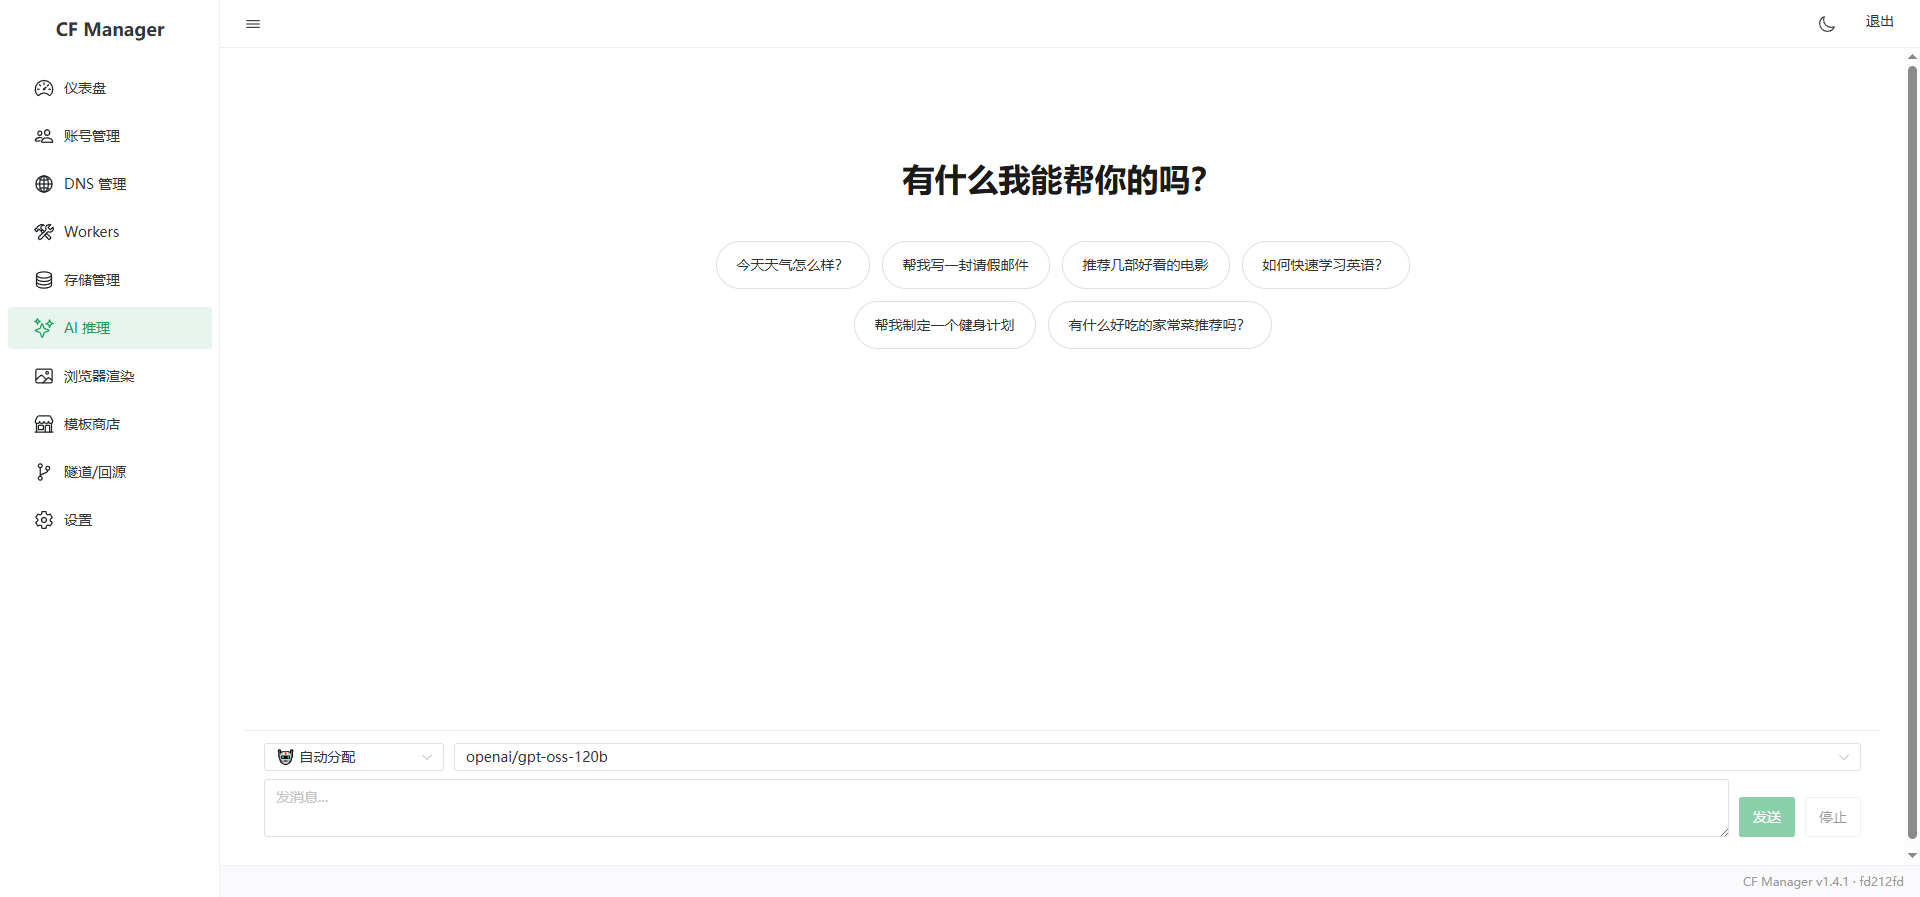
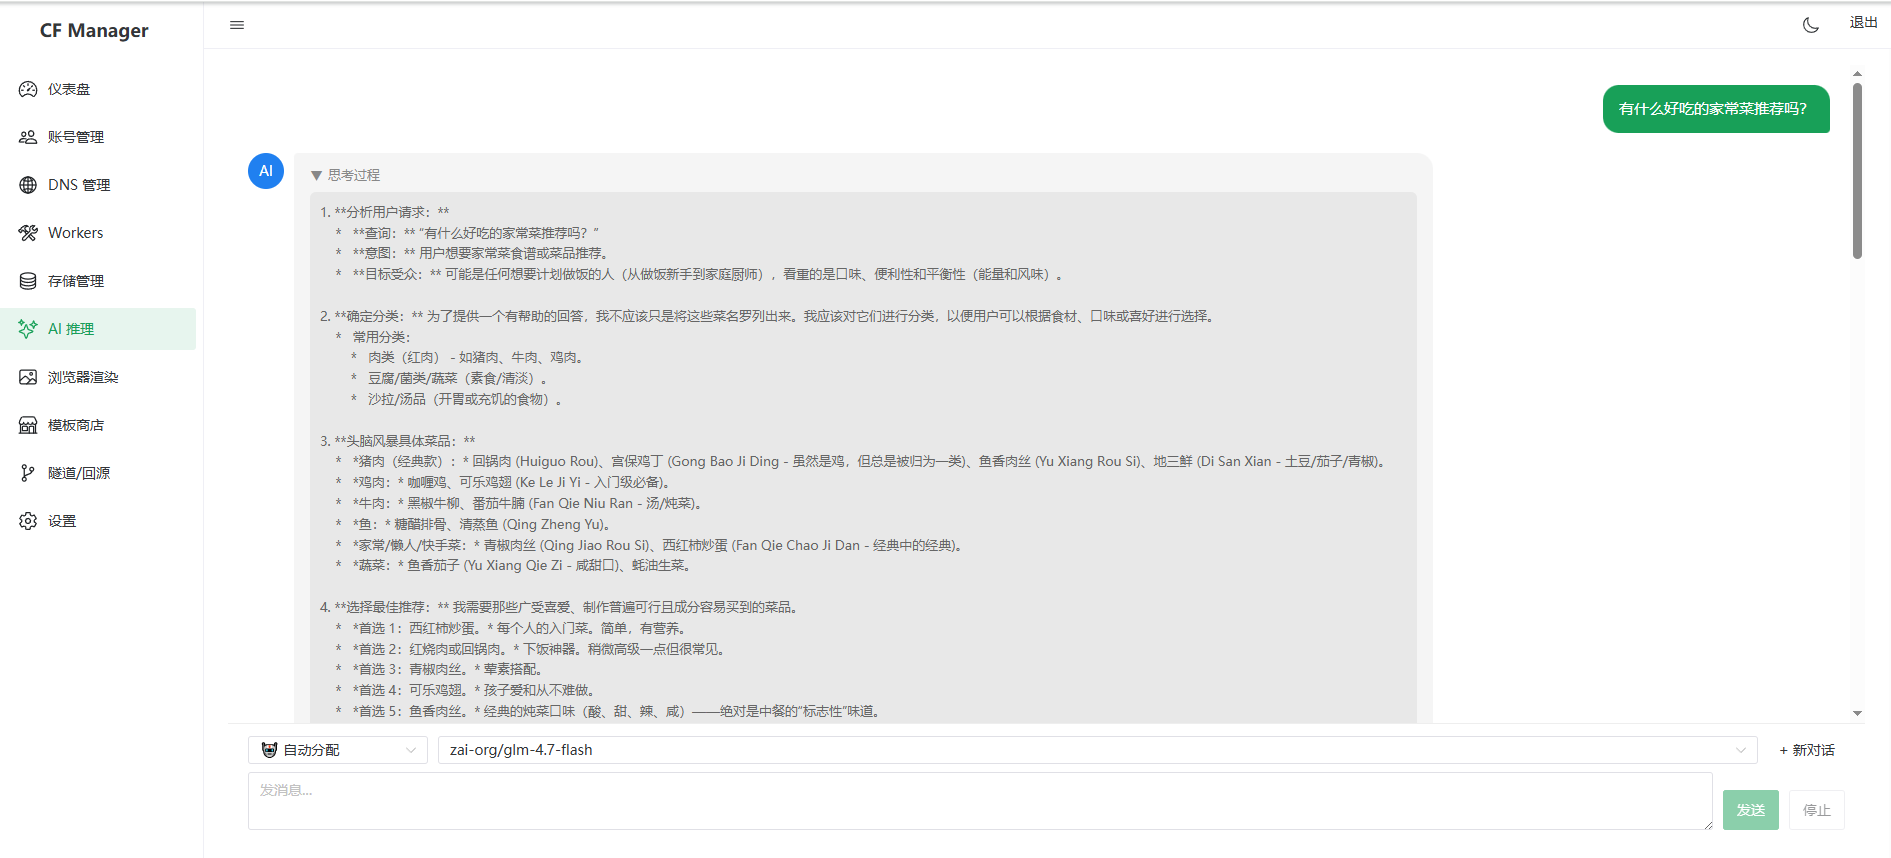
docs: 新增 cf-manager 架构分析文章并更新发布时间

diff --git a/src/content/posts/cf-manager-arch.md b/src/content/posts/cf-manager-arch.md
@@ -1,0 +1,193 @@
+---
+title: Cloudflare 多账户管理：从痛点分析到开源方案实践
+published: 2026-07-30 15:03:27
+description: 分享 Cloudflare 多账户统一管理的技术方案，涵盖 DNS、Workers、存储和 AI 推理的集中运维实践。
+image: "./images/cf-manager-cover.png"
+tags:
+  - Cloudflare
+  - Workers
+  - 运维
+  - 开源
+category: 技术
+draft: false
+lang: 'zh-cn'
+slug: cf-manager-arch
+---
+
+## 背景
+
+日常开发中经常同时用到多个 Cloudflare 账户——一个放博客域名，一个跑 Workers AI，还有一个管理十几条 DNS 记录。官方后台各功能分散在不同页面，切换账户需要反复登录，查配额、部署 Worker 这些操作非常繁琐。
+
+于是做了一个开源工具来解决这个问题，把 Cloudflare 官方后台分散在多个页面、多个账户的功能，全部收到一个面板里。下面分享它的架构设计和技术实现。
+
+---
+
+## 整体架构
+
+![仪表盘](./images/dashboard.png)
+
+核心思路很简单：**通过 Cloudflare API 统一对接所有账户的资源，前端用一个 SPA 面板集中呈现和操作。**
+
+### 架构选型
+
+项目支持两套后端，共用同一套前端和业务逻辑：
+
+| 方案 | 后端 | 数据库 | 适用场景 |
+|------|------|--------|----------|
+| Docker 自托管 | Express 5 | SQLite | 本地/私有服务器，数据处理在本地 |
+| Cloudflare Pages | Hono | D1 | 零运维，数据存在 Cloudflare 边缘 |
+
+两种方案的选择主要看对数据的控制需求。Docker 方案的凭证和操作日志完全在本地，适合对数据隐私要求高的场景；Pages 方案无须维护服务器，适合个人快速使用。
+
+前端统一使用 **Vue 3 + Naive UI + Pinia**，API 层做了适配层，同一套前端代码可以无缝对接两种后端。
+
+### 凭证安全
+
+Cloudflare API 支持两种认证方式：**API Token**（细粒度权限）和 **Global API Key**（全局权限）。工具同时支持这两种，推荐使用 API Token，可以精确控制每个 Token 能访问的资源和操作类型。
+
+所有凭证在前端提交后，后端使用 **AES-256-CBC** 加密存入数据库，加密密钥由部署者自己设定，不经过任何第三方服务。
+
+---
+
+## 核心模块设计
+
+从域名 DNS 到边缘计算，从对象存储到 AI 推理，整个面板覆盖了 Cloudflare 运维的主要链路。
+
+### 多账户切换机制
+
+多账户管理的核心难点在于 **凭证隔离** 和 **上下文切换**。
+
+实现上，每个账户的 API Token 独立加密存储，用户登录面板后可以添加多个账户。切换账户时，前端只切换当前会话的 `accountId` 上下文，后端根据该上下文选择对应的加密凭证解密后调用 Cloudflare API。操作审计日志也按账户维度记录，方便追溯。
+
+![Workers 管理](./images/workers.png)
+
+### Workers / Pages 批量部署
+
+跨账户部署 Worker 是最常用的功能之一。Cloudflare 官方 API 的部署流程是：上传脚本 → 配置绑定 → 设置路由 → 绑定域名，每一步都要单独调 API。
+
+这里做了两件事：
+1. **结构化表单**：把 JSON 配置转为可视化表单，KV 绑定、环境变量、路由规则都在表单里完成，降低手写 JSON 的出错过率。
+2. **批量调度**：选择多个账户后，构造部署任务队列，按账户串行、按步骤并行执行，失败自动回滚。
+
+### AI 推理网关
+
+Workers AI 提供了不错的免费推理额度，但官方没有提供用量统计和配额监控。这个模块的核心设计点：
+
+- **全模型支持**：通过 Workers AI 的 REST API 列出所有可用模型，按文本生成、图像生成、嵌入等分类。
+- **流式对话**：基于 Server-Sent Events 实现流式推理，前端用 Naive UI 的对话组件展示，支持 Reasoning 过程可视化。
+- **OpenAI 兼容层**：暴露 `/v1/chat/completions` 和 `/v1/models` 两个端点，响应格式完全兼容 OpenAI API。这样本地的 ChatBox、OpenCat、Continue 等工具可以直接连上来，配置 `base_url` 为本机地址即可。
+- **用量监控**：汇总展示所有账户的 Workers AI 日配额消耗情况，方便了解各账户的推理用量。
+
+![AI 推理](./images/ai-inference.png)
+
+### 规则引擎
+
+Cloudflare 的 Rulesets API 相当复杂，涉及多种规则类型（Transform Rules、Cache Rules、Firewall Rules 等），每种规则的 Phase 和表达式语法都有差异。
+
+实现上做了两层抽象：
+- **规则模板层**：把 8 种常用规则类型（回源改写、URL 重写、请求头转换、缓存控制、防火墙、限速、重定向）抽象为结构化表单，用户填字段即可。
+- **表达式生成层**：根据表单配置自动生成 Cloudflare Rulesets API 所需的表达式语法，支持嵌套条件组合。
+
+### 隧道管理
+
+Cloudflare Tunnel 的配置链路比较长：创建 Tunnel → 配置 Ingress → 添加 DNS 记录，三者环环相扣，漏一步就无法正常回源。
+
+这里做了一个 **一键回源向导**：用户只需输入内网服务地址和域名，工具自动完成 Tunnel 创建、Ingress 规则写入、DNS CNAME 记录添加三步操作，并提供可视化的 Ingress 编辑界面。
+
+---
+
+## 模块总览
+
+| 模块 | 功能说明 |
+|------|----------|
+| 实时仪表盘 | 各账户 Workers、AI、渲染配额实时展示，操作审计记录 |
+| DNS 管理 | A / AAAA / CNAME / MX / TXT 全记录类型，代理开关，批量操作 |
+| Workers / Pages | 脚本 CRUD，单/跨账户批量部署，KV 绑定、环境变量、路由、自定义域名 |
+| 隧道管理 | Tunnel 创建/删除，Ingress 可视化编辑，一键回源向导 |
+| 规则引擎 | 8 种规则类型（回源/重写/头转换/缓存/防火墙/限速/重定向），表单化配置 |
+| AI 推理 | Workers AI 全模型，流式对话 + Reasoning 可视化，多账户配额调度 |
+| 浏览器渲染 | 截图 / HTML / Markdown / PDF / 链接提取，5 种模式，内建 SSRF 防护 |
+| 存储管理 | KV 键值 CRUD、D1 SQL 查询、R2 文件上传/下载/预览 |
+| OpenAI 兼容 API | `/v1/chat/completions`、`/v1/models`，流式 + 非流式 |
+| 安全 | API Token AES-256-CBC 加密，可选登录密码，`/admin/` 路径隐藏，审计日志 |
+
+![模板商店](./images/store.png)
+
+---
+
+## 部署实践
+
+### Cloudflare Pages 部署（推荐）
+
+利用 GitHub Actions 自动部署到 Cloudflare Pages，全程浏览器操作：
+
+| 步骤 | 操作 |
+|------|------|
+| 1 | Fork 仓库，打开你的 Fork → **Settings** → **Environments** |
+| 2 | 创建 `production` 环境，添加 4 个 Secrets（见下表） |
+| 3 | **Actions** → **Deploy to Cloudflare Pages (Secrets)** → Run workflow，环境名填 `production` |
+| 4 | 部署完成后访问 `https://cfmgr.pages.dev/admin/`，输入 `API_SECRET` 登录 |
+
+| 变量 | 说明 |
+|------|------|
+| `CF_API_KEY` | Cloudflare Global API Key |
+| `CF_EMAIL` | Cloudflare 账户邮箱 |
+| `ENCRYPTION_KEY` | 至少 16 位随机字符串（AES 加密密钥） |
+| `API_SECRET` | 面板登录密码 |
+
+> 生产环境推荐用 API Token 替代 Global API Key，只授予必要的权限，具体权限列表见[附录](#附录)。
+
+### Docker 自托管
+
+```bash
+git clone https://github.com/hefy2027/cf-manager.git
+cd cf-manager && cp .env.example .env
+chmod +x deploy.sh && ./deploy.sh
+# 访问 http://localhost:3000/admin/
+```
+
+修改 `.env` 中的 `ENCRYPTION_KEY` 和 `API_SECRET` 后启动即可。支持 HTTP/SOCKS5 代理，适合需要固定出口 IP 的环境。
+
+---
+
+## 技术栈总结
+
+| 层 | Docker 方案 | Cloudflare Pages 方案 |
+|----|------------|----------------------|
+| 前端 | Vue 3 + Naive UI + Pinia | 同左 |
+| 后端 | Express 5 | Hono |
+| 数据库 | SQLite (better-sqlite3) | Cloudflare D1 |
+| 部署 | Docker Compose | GitHub Actions → Pages |
+
+---
+
+## 参考资料
+
+- GitHub 仓库：https://github.com/hefy2027/cf-manager
+
+---
+
+## 附录：API Token 权限配置对照
+
+使用 API Token 时，创建自定义 Token 需要勾选以下 14 项权限：
+
+| # | 权限 | 级别 | 对应功能 |
+|---|------|------|----------|
+| 1 | `User Details:Read` | User | 验证 Token 有效性 |
+| 2 | `Account Analytics:Read` | Account | 仪表盘用量统计 |
+| 3 | `Workers Scripts:Edit` | Account | Workers 脚本 / Secrets / Cron / 域名 / 设置 |
+| 4 | `Workers Tail:Read` | Account | Worker 日志查看 |
+| 5 | `Workers KV Storage:Edit` | Account | KV 命名空间和键值管理 |
+| 6 | `D1:Edit` | Account | D1 数据库管理及 SQL 查询 |
+| 7 | `Workers R2 Storage:Edit` | Account | R2 存储桶和对象管理 |
+| 8 | `Cloudflare Pages:Edit` | Account | Pages 项目和部署管理 |
+| 9 | `Workers AI:Edit` | Account | AI 模型列表和推理 |
+| 10 | `Browser Rendering:Edit` | Account | 浏览器渲染（5 种模式） |
+| 11 | `Cloudflare Tunnel:Edit` | Account | Tunnel 管理 |
+| 12 | `Zone:Read` | Zone | 区域列表读取 |
+| 13 | `DNS:Edit` | Zone | DNS 记录管理 |
+| 14 | `Workers Routes:Edit` | Zone | Workers 路由管理 |
+
+**资源范围**：Account Resources → `All accounts`，Zone Resources → `All zones`。
+
+**创建入口**：[Cloudflare API Tokens](https://dash.cloudflare.com/profile/api-tokens) → 创建令牌 → 自定义。TTL 建议 `Forever`，生成后**立即复制保存**。

diff --git a/src/content/posts/cf-manager-intro.md b/src/content/posts/cf-manager-intro.md
@@ -1,6 +1,6 @@
 ---
 title: 一个面板，管完你所有 Cloudflare 账户
-published: 2026-07-30
+published: 2026-07-30 15:02:59
 description: 告别多账户反复切换，用 CF Manager 统一管理 DNS、Workers、存储和 AI 推理——5 分钟零成本部署。
 image: "./images/cf-manager-cover.png"
 tags:
